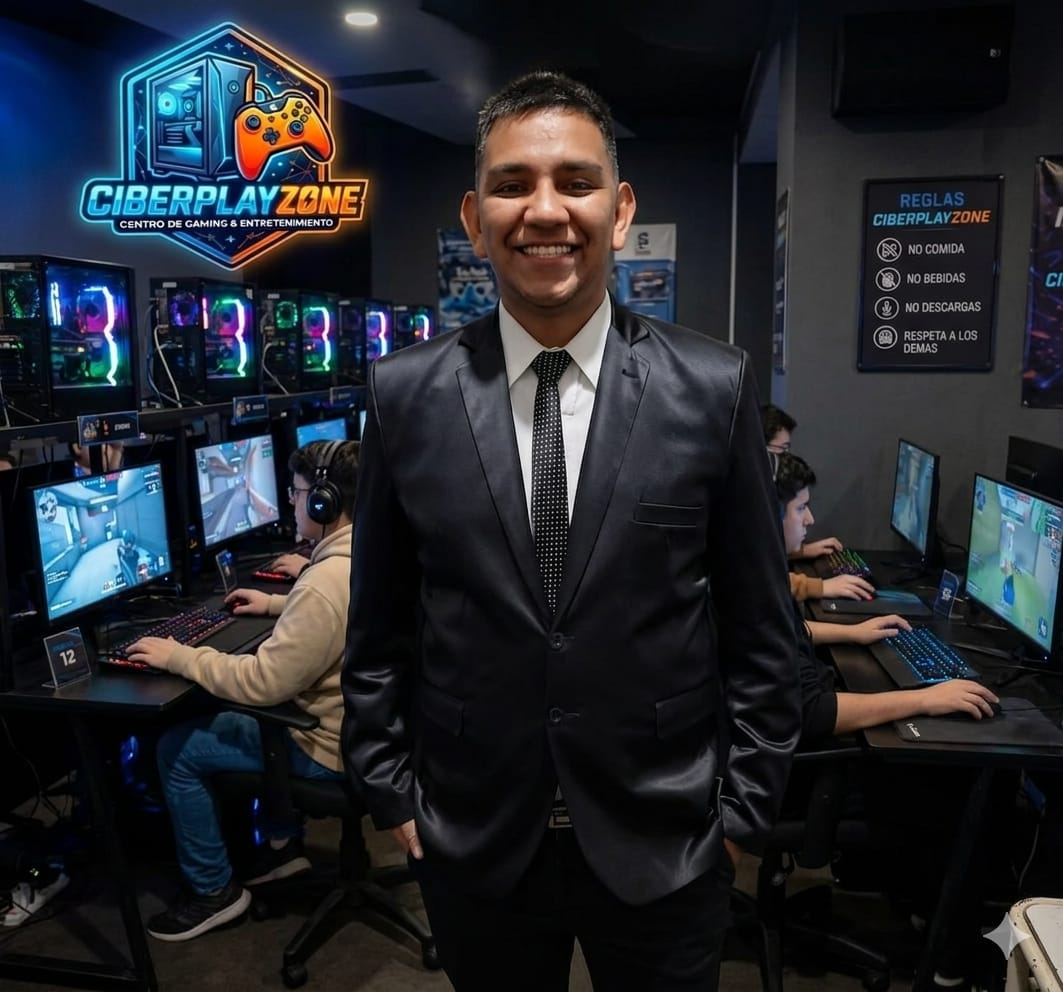
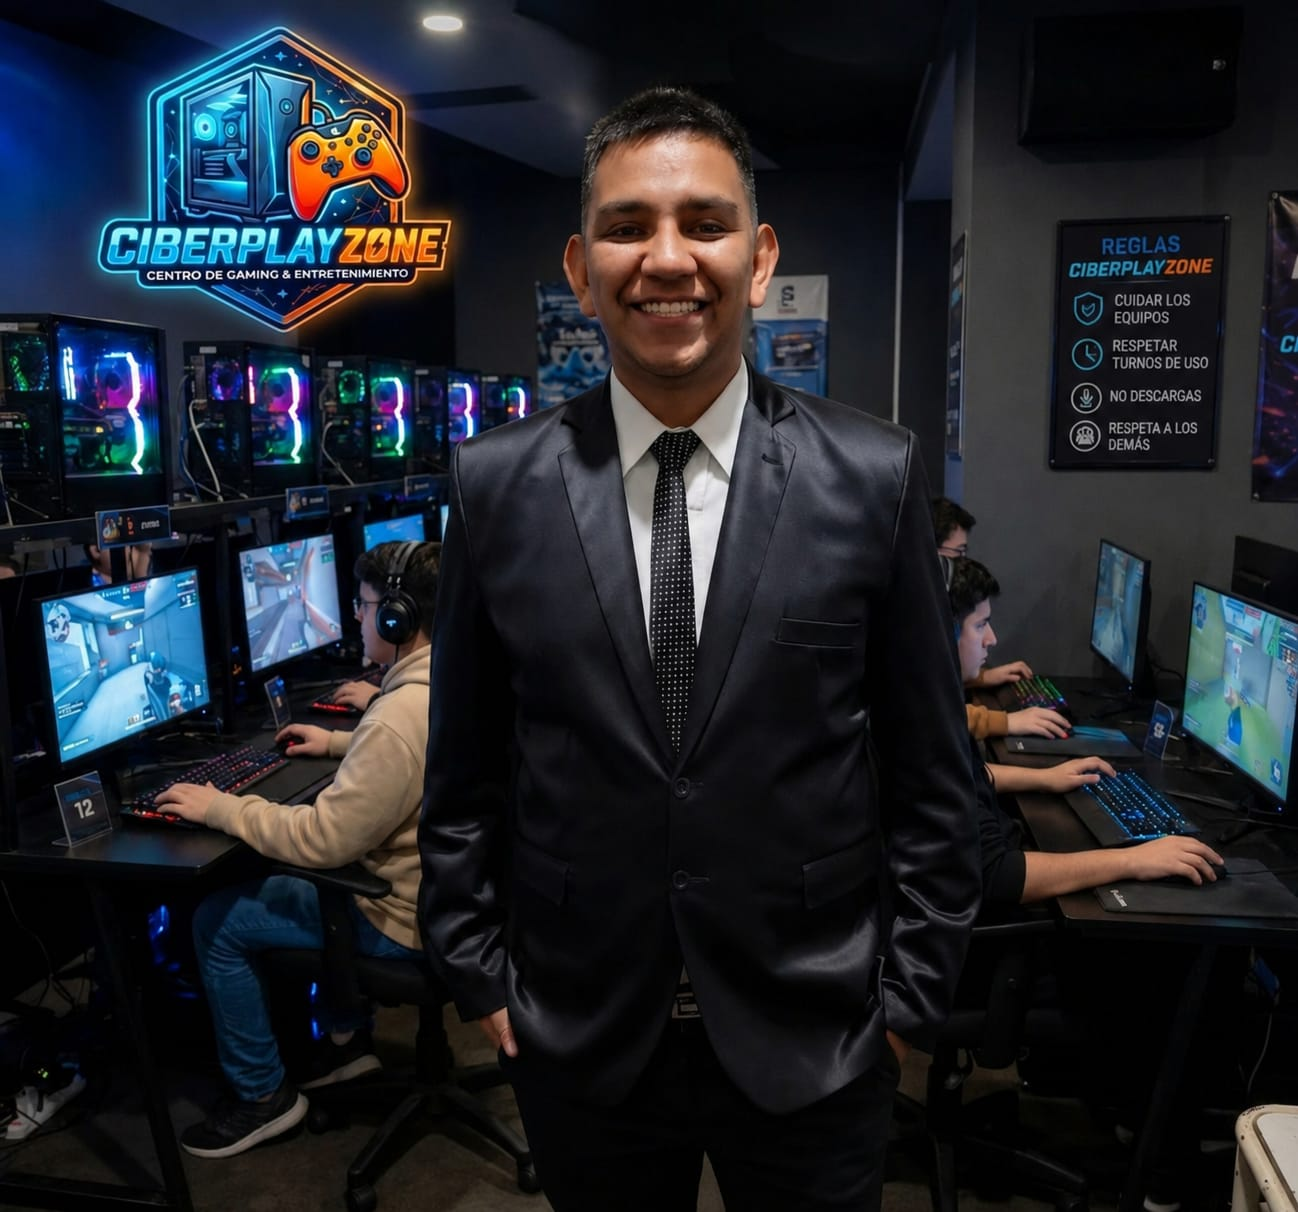
scanerrr4545

diff --git a/app.js b/app.js
@@ -266,7 +266,7 @@ function initMembers() {
       role: 'Gerente — Finanzas & Proveedores',
       img: 'assets/miembros/manuF.png',
       short: 'Coordina el negocio, finanzas y proveedores; no gestiona turnos.',
-      desc: 'Lidera la parte administrativa: controla finanzas, pagos y relaciones con proveedores. No se encarga del registro de turnos ni la operación diaria sobre las mesas.',
+      desc: 'Lidera la parte administrativa: controla finanzas, pagos a los clientes y relaciones con proveedores. No se encarga del registro de turnos ni la operación diaria sobre las mesas.',
       focus: 'Finanzas, compras y relaciones con proveedores.',
       work: 'Gestiona facturación, pagos y acuerdos con proveedores; define prioridades estratégicas para el local.',
     },
@@ -304,7 +304,7 @@ function initMembers() {
       id: 'barra',
       name: 'Milagros Moreno',
       role: 'Snacks & atención',
-      img: 'assets/member-placeholder.svg',
+      img: 'assets/miembros/mili.png',
       short: 'Hace que la experiencia sea completa: comida, bebida y orden.',
       desc: 'Gestiona stock de snacks y bebidas, mantiene orden y limpieza, y ayuda con la atención para que los turnos se respeten.',
       focus: 'Stock y ventas, orden y limpieza, apoyo en atención y turnos.',
@@ -314,7 +314,7 @@ function initMembers() {
       id: 'limpieza',
       name: 'Emanuel Corbalan',
       role: 'Limpieza & Mantenimiento',
-      img: 'assets/member-placeholder.svg',
+      img: 'assets/miembros/corbalan.png',
       short: 'Encargado de limpieza del local, baños y mantenimiento de máquinas.',
       desc: 'Se ocupa de la limpieza diaria del local, mantenimiento básico de equipos y la higiene de baños y zonas comunes para asegurar un espacio cómodo.',
       focus: 'Limpieza, mantenimiento preventivo y revisión de máquinas.',